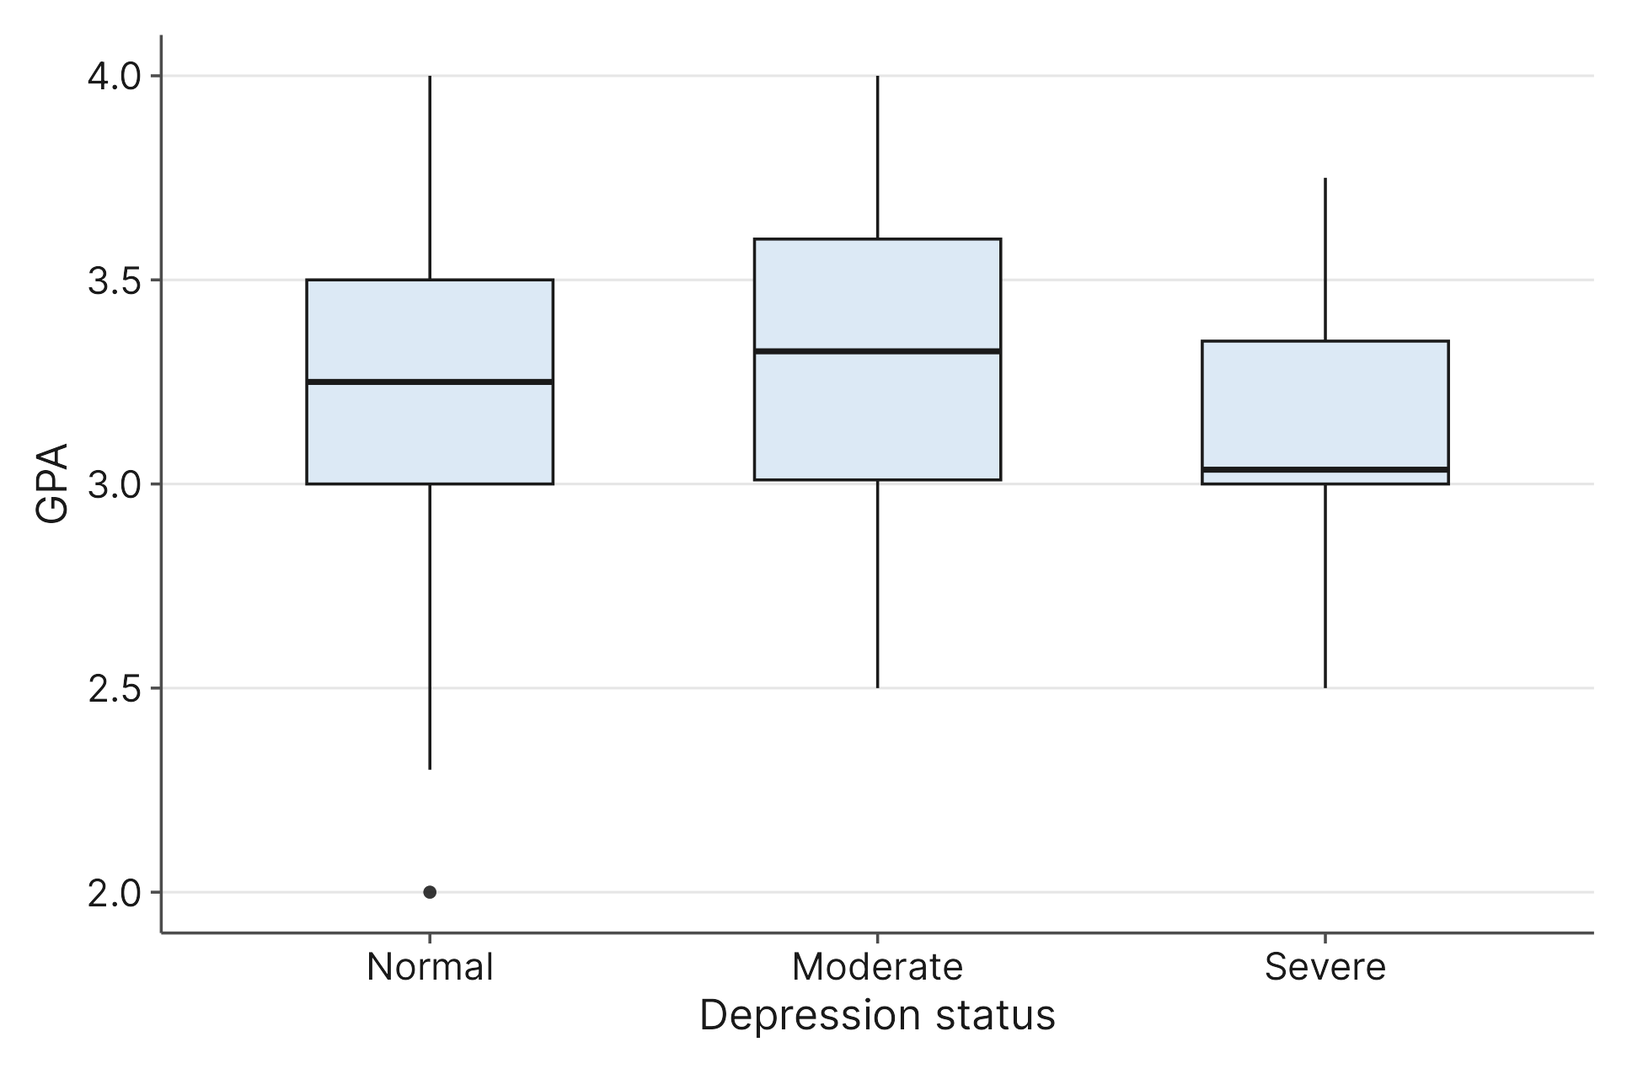
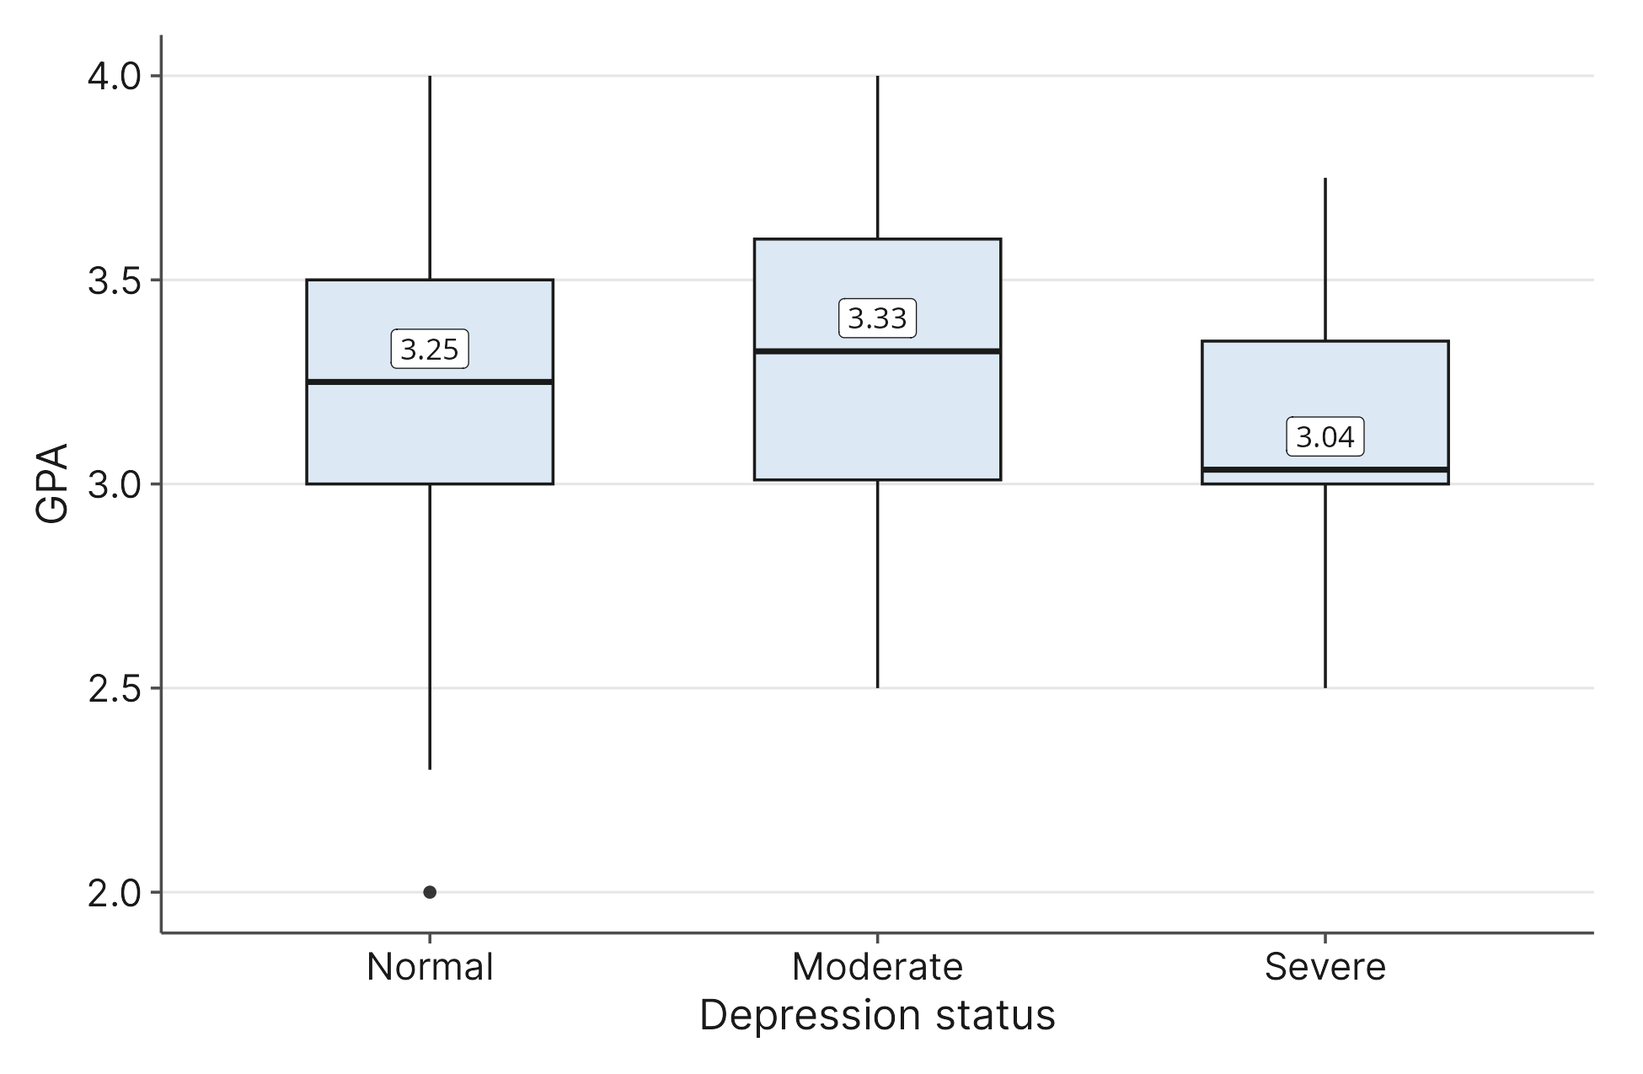
Rebuild chapter 1 figures and move guided analysis to anxiety
Rebuild Figures 1.7, 1.10, and 1.11 from the Happy Planet Index data. Figure 1.7 is a simple scatterplot; 1.10 groups by region; 1.11 sizes bubbles by ecological footprint. Move Figure 1.15 and Section 1.16 to AnxietyStatus, with the table and APA conclusion matching the CSV. Add median labels and prose interpretation to Figure 1.9b. Fix the clipped 120,000 tick in 1.11. Extend sync_chapter.R so renamed figure files still sync.

Changed region(s): [[0.4923, 0.2753, 0.5846, 0.3365], [0.7692, 0.3671, 0.8308, 0.4282], [0.2154, 0.3059, 0.3077, 0.3671]]

diff --git a/chapters/chapter-01.md b/chapters/chapter-01.md
@@ -96,7 +96,7 @@ To make sense of this, we use a variation called a **Pareto chart**.
 
 
 
-A Pareto chart is a bar plot for nominal data where the bars are sorted in descending order. The tallest bar is placed on the far left, and the shortest bar is on the far right. Often, to save space, the many rare categories at the tail end are combined into a single "Other" bar. This sorting forces the most common reasons to the front, making it effortless to see exactly where the majority of students are seeking help.
+A Pareto chart is a bar chart for nominal data where the bars are sorted in descending order. The tallest bar is placed on the far left, and the shortest bar is on the far right. Often, to save space, the many rare categories at the tail end are combined into a single "Other" bar. This sorting forces the most common reasons to the front, making it effortless to see exactly where the majority of students are seeking help.
 
 
 
@@ -118,7 +118,7 @@ We visualize this grouping using a **histogram**.
 
 
 
-At first glance, a histogram looks a lot like a bar plot. But notice one major visual difference: there are no gaps between the bars. In a bar plot, the gaps remind us that categories are completely separate. In a histogram, the bars touch because they represent a continuous number line. Where one bin ends, the next bin immediately begins.
+At first glance, a histogram looks a lot like a bar chart. But notice one major visual difference: there are no gaps between the bars. In a bar chart, the gaps remind us that categories are completely separate. In a histogram, the bars touch because they represent a continuous number line. Where one bin ends, the next bin immediately begins.
 
 ## 1.5 Distribution Shapes and The Normal Curve
 
@@ -146,7 +146,7 @@ However, real-world data is often messy and leans heavily to one side. We call t
 
 
 
-Let's look at the `ClassesMissed` variable. If we make a histogram of this numerical data, we will see a massive peak at zero or one, with a long "tail" stretching out to the right for the few students who missed 10 or 15 classes. Because the tail stretches to the right, we call this **right-skewed** (or positively skewed). The data has a strong **floor effect**, meaning it hits a hard lower limit (you cannot miss fewer than zero classes) and piles up there.
+Let's look at the `ClassesMissed` variable. In the histogram of this numerical data, we see a massive peak at zero, with a long "tail" stretching out to the right for the few students who missed 10 to 20 classes. Because the tail stretches to the right, we call this **right-skewed** (or positively skewed). The data has a strong **floor effect**, meaning it hits a hard lower limit (you cannot miss fewer than zero classes) and piles up there.
 
 
 
@@ -158,23 +158,27 @@ Conversely, if the tail stretches to the left, the data is **left-skewed** (or n
 
 
 
-While we typically use these shape terms for continuous numerical data, the concept of shape can also offer profound intuition for ordinal variables. Imagine asking your friends about the course grades in two different sections of a challenging history class. Grades are ordinal (A, B, C, D, F). If the distribution of grades in Professor Sctrict's class is strongly right-skewed, the "tail" stretches toward the higher grades (A and B), meaning the massive peak of the class is piled up at the lower end (D and F). If Professor Kuhl's class is strongly left-skewed, the tail stretches toward the failing grades, but the vast majority of students are piled up at the A and B level. Which class would you rather take? Visualizing this shape instantly tells you the story of the classroom without needing a single calculation.
+While we typically use these shape terms for continuous numerical data, the concept of shape can also offer profound intuition for ordinal variables. Imagine asking your friends about the course grades in two different sections of a challenging history class. Grades are ordinal (A, B, C, D, F). If the distribution of grades in Professor Strict's class is strongly right-skewed, the "tail" stretches toward the higher grades (A and B), meaning the massive peak of the class is piled up at the lower end (D and F). If Professor Kuhlman's class is strongly left-skewed, the tail stretches toward the failing grades, but the vast majority of students are piled up at the A and B level. Which class would you rather take? Visualizing this shape instantly tells you the story of the classroom without needing a single calculation.
 
 ## 1.6 Visualizing Relationships: Two Numerical Variables
 
-Up to this point, we have only looked at variables in isolation. We know how many students have severe anxiety, and we know the shape of the GPA distribution. But research is fundamentally about relationships. We don't just want to know *what* the GPA is; we want to know *why* it is that way. Does missing class lead to lower grades? 
+Up to this point, we have only looked at variables in isolation. We know how many students have severe depression, and we know the shape of the GPA distribution. But research is fundamentally about relationships. A single number can tell us what happened; a relationship helps explain why. Does missing class lead to lower grades?
 
 
 
-To answer this, we need to look at two numerical variables at the exact same time: `ClassesMissed` and `GPA`. Because both of these are numbers, we can plot them on a standard two-dimensional grid using a **scatterplot**. In a scatterplot, each student is represented by a single dot. The dot's horizontal position (the x-axis) shows how many classes they missed, and its vertical position (the y-axis) shows their GPA.
+We can ask a similar question about countries: does a country's wealth relate to how long its residents live? The `happy_planet_index_2024.csv` dataset records country-level measures, including `GDPperCapita` and `LifeExpectancy`. Because both of these are numbers, we can plot them on a standard two-dimensional grid using a **scatterplot**. In a scatterplot, each country is represented by a single dot. The dot's horizontal position (the x-axis) shows its GDP per capita, and its vertical position (the y-axis) shows its life expectancy.
 
 
 
-![Figure 1.7: Classes missed and GPA for 253 students. The downward trend is visible but weak.](../figures/chapter_01/fig_01_07_scatter_classes_missed_gpa.png){fig-alt="Scatterplot of classes missed versus GPA. The points form a loose downward cloud, but the relationship is weak; students who missed no classes still range from about 2.4 to 4.0 on GPA."}
+![Figure 1.7: GDP per capita and life expectancy for 143 of the 147 countries in the Happy Planet Index data. The trend rises steeply at low incomes and then levels off.](../figures/chapter_01/fig_01_07_scatter_gdp_life_expectancy.png){fig-alt="Scatterplot of GDP per capita versus life expectancy for 143 countries. Points rise steeply from the low 50s at the lowest incomes and then flatten near 80 years at higher incomes."}
 
 
 
 When you look at a scatterplot, you are looking for a trend. Do the dots form a cloud that drifts upward? Downward? Or is it just a random, shotgun blast of dots with no discernible pattern? By simply mapping one number against another, we can instantly see if a relationship exists and how strong it appears to be.
+
+
+
+The cloud here drifts upward: countries with higher GDP per capita tend to have higher life expectancy. If we look closely, we can see that life expectancy rises steeply at low GDP per capita, then levels off.  This "bend" in the relationship makes our analysis later in Chapter 4 slightly more complex, but the point here is that we can immediately recognize that shape of the relationship in the scatterplot. For now, just keep in mind that a trend does not have to be a straight line to be a trend.
 
 ## 1.7 Visualizing Relationships: Two Categorical Variables
 
@@ -190,11 +194,11 @@ To explore this, we need to compare how drinking habits differ between the two s
 
 
 
-In a segmented bar chart, every group gets a single vertical bar that is stretched to be exactly the same height, representing 100% of the people in that group. We then slice the bar into colored segments based on our second variable. 
+In a segmented bar chart, every group gets a single vertical bar that is stretched to be exactly the same height, representing 100% of the people in that group. We then slice the bar into segments based on our second variable. 
 
 
 
-To interpret this chart, you simply compare the sizes of the colored segments across the different bars. For example, if the "Heavy drinking" segment is noticeably taller inside the "High stress" bar than it is inside the "Normal stress" bar, you have immediate visual evidence that heavy drinking is more prevalent among highly stressed students.
+To interpret this chart, you simply compare the sizes of the segments across the different bars. For example, the "Heavy drinking" segment is taller inside the "High stress" bar than it is inside the "Normal stress" bar: 9% versus 6%. That difference is noticeable, and it suggests a relationship worth investigating further.
 
 
 
@@ -242,11 +246,15 @@ The best tool for this job is a **box plot** (sometimes called a box-and-whisker
 
 
 
-![Figure 1.9b: GPA by depression screening status. The medians do not decline steadily with severity.](../figures/chapter_01/fig_01_09b_box_gpa_by_depression.png){fig-alt="Side-by-side box plots of GPA for the Normal, Moderate, and Severe depression groups. Median GPA is 3.25 in the Normal group, 3.32 in the Moderate group, and 3.04 in the Severe group. The Moderate group has the widest middle 50%."}
+![Figure 1.9b: GPA by depression screening status for 253 students. The Severe group has the lowest median and third quartile.](../figures/chapter_01/fig_01_09b_box_gpa_by_depression.png){fig-alt="Side-by-side box plots of GPA for the Normal, Moderate, and Severe depression groups. Median GPA is 3.25 in the Normal group, 3.33 in the Moderate group, and 3.04 in the Severe group. The third quartile is 3.50, 3.60, and 3.35. The Moderate group has the widest middle 50%."}
 
 
 
-A box plot takes a numerical distribution and boils it down to its most essential parts: a box that contains the middle 50% of the students, a line inside the box for the median (the exact center), and lines (whiskers) reaching out to the extremes. By placing a box plot for "Normal," "Moderate," and "Severe" right next to each other, you can easily compare the typical GPA across different mental health statuses.
+A box plot takes a numerical distribution and boils it down to its most essential parts: a box that contains the middle 50% of the students, a line inside the box for the median (the exact center value when data is placed in numerical order), and lines (whiskers) reaching out to the extremes. By placing a box plot for "Normal," "Moderate," and "Severe" right next to each other, you can easily compare the typical GPA across different mental health statuses.
+
+
+
+In this sample, the Severe group has the lowest median GPA (3.04, compared with 3.25 for Normal and 3.33 for Moderate), so there may be a relationship there worth investigating. The Moderate group's median is slightly above the Normal group's, so the pattern is not a steady decline from Normal to Moderate to Severe.
 
 
 
@@ -254,19 +262,19 @@ A box plot takes a numerical distribution and boils it down to its most essentia
 
 
 
-Sometimes, a hidden categorical variable is secretly influencing a numerical relationship. Let's return to our scatterplot of `ClassesMissed` and `GPA`. What if we suspect that highly stressed students miss classes for different reasons than normal-stressed students? 
+Sometimes, a categorical variable quietly shapes a numerical relationship. Let's return to the scatterplot of `GDPperCapita` and `LifeExpectancy`. What if a country's region changes that relationship?
 
 
 
-We can add `Stress` to our scatterplot as a **grouping variable** by changing the color and shape of the dots. 
+We can add a simplified `Region` variable as a **grouping variable** by changing the color and shape of the dots. Here, countries in Region 5 (Sub-Saharan Africa) are orange triangles, countries in Region 3 (Western Europe) are blue circles, and all other regions are green squares. 
 
 
 
-![Figure 1.10: Classes missed and GPA by stress level. Shape and color both encode stress, so the groups remain distinguishable without color.](../figures/chapter_01/fig_01_10_scatter_gpa_missed_by_stress.png){fig-alt="Scatterplot of classes missed versus GPA, with Normal stress shown as circles and High stress shown as triangles. The Normal group follows a loose downward trend, while High stress points are spread across the full range of classes missed rather than clustering in one corner."}
+![Figure 1.10: GDP per capita and life expectancy for 143 countries, grouped by region. Sub-Saharan Africa clusters at low values of both, and Western Europe at high values of both.](../figures/chapter_01/fig_01_10_scatter_gdp_lifeexp_by_region.png){fig-alt="Scatterplot of GDP per capita versus life expectancy for 143 countries. Sub-Saharan Africa is shown as triangles at low GDP per capita and low life expectancy, Western Europe as circles at high values of both, and other regions as squares in between."}
 
 
 
-By doing this, you are looking at three variables at once. If all the red triangles cluster in the bottom right (high missed classes, low GPA), the visualization reveals a deeper, more detailed relationship than the original plot showed.
+By doing this, you are looking at three variables at once. The groups fall into distinct bands: Sub-Saharan Africa sits at low GDP per capita and low life expectancy, Western Europe sits at high values of both, and other regions span the range between. The grouping reveals a more granular look at the relationship than the original plot showed.
 
 
 
@@ -274,7 +282,7 @@ By doing this, you are looking at three variables at once. If all the red triang
 
 
 
-Finally, what if you have three numerical variables? Perhaps you want to look at `WeekdaySleep` (x-axis), `GPA` (y-axis), and the number of weekly alcoholic `Drinks`. 
+Finally, what if you have three numerical variables? We can return to the country data and look at `GDPperCapita` (x-axis), `LifeExpectancy` (y-axis), and `Footprint` (bubble size), the ecological footprint per person.
 
 
 
@@ -282,11 +290,11 @@ Because a piece of paper (or a computer screen) is flat, we can't easily add a 3
 
 
 
-![Figure 1.11: Weekday sleep, GPA, and weekly drinks. Bubble size encodes drinks per week.](../figures/chapter_01/fig_01_11_bubble_sleep_gpa_drinks.png){fig-alt="Bubble plot of weekday sleep versus GPA, with bubble size showing weekly drinks. Most bubbles are small, and larger bubbles are scattered across the sleep range rather than clustered at low sleep and low GPA."}
+![Figure 1.11: GDP per capita, life expectancy, and ecological footprint for 143 countries. Bubble size encodes the ecological footprint.](../figures/chapter_01/fig_01_11_bubble_gdp_lifeexp_footprint.png){fig-alt="Bubble plot of GDP per capita versus life expectancy for 143 countries. Bubble size shows the ecological footprint. Most bubbles are small and cluster at low GDP per capita. The largest bubbles, including Qatar and Luxembourg, sit at higher GDP per capita."}
 
 
 
-A bubble plot is just a scatterplot where the size of the dot changes based on a third numerical variable. A student who has 15 drinks a week is drawn as a massive bubble, while a student who abstains is a tiny speck. This allows you to hunt for complex patterns, like checking if the largest bubbles tend to cluster around low sleep and low GPA.
+A bubble plot is just a scatterplot where the size of the dot changes based on a third numerical variable. A country with a footprint of 42.2, such as Qatar, is drawn as a large bubble, while a country with a footprint near 0.2, such as Ethiopia, is a tiny speck. This allows you to hunt for complex patterns, like checking whether the largest bubbles cluster at high GDP per capita and high life expectancy. In this figure, the largest bubbles sit at higher GDP per capita, but their life expectancies are not the highest in the dataset.
 
 
 
@@ -557,12 +565,12 @@ As you begin working with real data, there are a few common traps that trip up a
 We have covered a lot of ground in this chapter. To see how these tools work together, let's walk through a complete, preliminary analysis using our dataset of 253 college students. 
 
 ### The Research Interest
-Student well-being is a major focus for universities. We know that college can be highly stressful, and we want to understand how mental health impacts academic behavior. Specifically, we might wonder if students who are struggling with depression find it more difficult to attend their classes. Behind these numbers are real students facing challenging circumstances, so exploring this relationship could help universities better allocate support resources.
+Student well-being is a major focus for universities. We know that college can be highly stressful, and we want to understand how mental health impacts academic behavior. Specifically, we might wonder if students who are struggling with anxiety find it more difficult to attend their classes. Behind these numbers are real students facing challenging circumstances, so exploring this relationship could help universities better allocate support resources.
 
 ### The Research Question
 Can we translate that broad interest into a specific question we can answer with our data? 
-* **Question:** In our sample of 253 students, do those who screen for severe depression miss more classes on average than those with normal screening results?
-* **The Variables:** We are comparing `DepressionStatus` (a categorical variable) against `ClassesMissed` (a numerical variable).
+* **Question:** In our sample of 253 students, do those who screen for severe anxiety miss more classes on average than those with normal screening results?
+* **The Variables:** We are comparing `AnxietyStatus` (a categorical variable) against `ClassesMissed` (a numerical variable).
 
 ### Data Triage and Exploratory Analysis
 Before we calculate any averages, we must look at the shape of our data. If we were to plot a histogram of `ClassesMissed` for all 253 students, we would immediately see a massive **floor effect**. Most students miss zero, one, or two classes, causing the data to pile up on the left side of the graph. However, a long right tail stretches out for the few students who missed 10 or more classes. 
@@ -577,18 +585,18 @@ To visualize the relationship between a categorical variable and a numerical var
 
 
 
-![Figure 1.15: Classes missed by depression screening status. The Severe group has the highest median, but the step from Normal to Moderate is flat.](../figures/chapter_01/fig_01_15_box_classes_missed_by_depression.png){fig-alt="Side-by-side box plots of classes missed for the Normal, Moderate, and Severe depression groups. Median classes missed is 1 in the Normal group, 1 in the Moderate group, and 2 in the Severe group. Spread is similar in the Normal and Moderate groups and narrower in the Severe group."}
+![Figure 1.15: Classes missed by anxiety screening status for 253 students. The Severe group has a higher median and a wider middle 50%.](../figures/chapter_01/fig_01_15_box_classes_missed_by_anxiety.png){fig-alt="Side-by-side box plots of classes missed for the Normal, Moderate, and Severe anxiety groups. Median classes missed is 1 in the Normal group, 1 in the Moderate group, and 4.5 in the Severe group. The Severe group also has the widest middle 50%, from 1.5 to 6.25."}
 
 
 
-Looking at the visual, there is a clear trend: as the severity of depression increases, the entire box plot shifts upward, indicating more missed classes. 
+The box plot shows where the groups differ: the Normal and Moderate groups both have a median of 1 class missed, and their boxes overlap heavily. The Severe group is different. Its median is 4.5 classes missed, and its middle 50% runs from 1.5 to 6.25, so both the center and the spread are larger. The Severe group has only 16 students, so this comparison describes our sample and is not a precise estimate for all students with severe anxiety.
 
 ### Numerical Summaries
-| Depression Status | Median Classes Missed | Interquartile Range (IQR) |
-| :---------------- | :-------------------- | :------------------------ |
-| **Normal**        | 1.0                   | 2.0                       |
-| **Moderate**      | 2.0                   | 3.0                       |
-| **Severe**        | 4.0                   | 5.0                       |
+| Anxiety Status | Median Classes Missed | Interquartile Range (IQR) |
+| :------------- | :-------------------- | :------------------------ |
+| **Normal**     | 1.0                   | 3.0                       |
+| **Moderate**   | 1.0                   | 2.25                      |
+| **Severe**     | 4.5                   | 4.75                      |
 
 ### Translating to APA Style
 Before we write our final conclusion, we need to address a small quirk of the research world. In your statistics class, we use standard mathematical notation, like $\bar{x}$ for the sample mean and $s$ for the sample standard deviation. 
@@ -618,11 +626,11 @@ Now, we translate our statistical findings back into plain English (using APA fo
 
 
 
->  **Conclusion:** Within our sample, students with severe depression missed more classes (*Mdn* = 4.0, *IQR* = 5.0) than students with normal screenings (*Mdn* = 1.0, *IQR* = 2.0).
+>  **Conclusion:** Within our sample, students with severe anxiety missed more classes (*Mdn* = 4.5, *IQR* = 4.75) than students with normal screenings (*Mdn* = 1.0, *IQR* = 3.0).
 
 
 
-Notice two things about this conclusion. First, it uses the data to tell a clear, human story, supporting that story immediately with the exact numbers. Second, it strictly limits the claim to *our sample*. We have not proven that depression causes absenteeism for all college students everywhere. To make grand claims about the entire population, we need formal tools called hypothesis tests and confidence intervals, which we will begin building in the next chapter.
+Notice two things about this conclusion. First, it uses the data to tell a clear, human story, supporting that story immediately with the exact numbers. Second, it strictly limits the claim to *our sample*. We have not proven that anxiety causes absenteeism for all college students everywhere. To make grand claims about the entire population, we need formal tools called hypothesis tests and confidence intervals, which we will begin building in the next chapter.
 
 ## 1.17 Exercises
 
